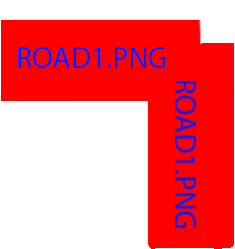
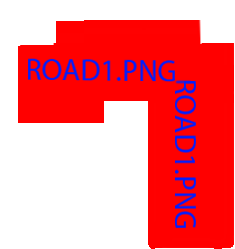
adjustments

Changed region(s): [[0.0, 0.0562, 0.8043, 0.506]]

diff --git a/TEMPLE C/SFML TEMPLE CONNECTION/SFML TEMPLE CONNECTION.cpp b/TEMPLE C/SFML TEMPLE CONNECTION/SFML TEMPLE CONNECTION.cpp
@@ -68,7 +68,7 @@ void reset_level()
     bridge[0].dir[2].second = bridge[0].dir[3].second = 322;
     ////--
     bridge[1].dir[0].first = 0;
-    bridge[1].dir[0].second = -1;
+    bridge[1].dir[0].second = 1;
     bridge[1].dir[1].first = 1;
     bridge[1].dir[1].second = 0;
     bridge[1].dir[2].first = bridge[0].dir[3].first = 322;
@@ -386,7 +386,7 @@ void all_load()
     bridge[0].dir[2].second = bridge[0].dir[3].second = 322;
     ////--
     bridge[1].dir[0].first = 0;
-    bridge[1].dir[0].second = -1;
+    bridge[1].dir[0].second = 1;
     bridge[1].dir[1].first = 1;
     bridge[1].dir[1].second = 0;
     bridge[1].dir[2].first = bridge[0].dir[3].first = 322;
@@ -485,7 +485,7 @@ void all_load()
 
 
     bridge[1].pod.setPosition(1171, 216);
-    bridge[1].pod.setOrigin(190, 60);
+    bridge[1].pod.setOrigin(235-190, 60);
     bridge[1].pod.setTexture(a.get(Texture::road2));
 
 
@@ -590,16 +590,33 @@ bool checkAvailability(int i, int j)
             for (int c = 0; c < 4; c++)
                 if (bridge[pozitie].dir[c].first != 322 && bridge[pozitie].dir[c].second != 322)
                 {
-                    if (BoardState[X + bridge[pozitie].dir[c].first][Y + bridge[pozitie].dir[c].second])
+                    if (c == 1)
                     {
-                        wrong.play();
-                        return 0;
+                        if (BoardState[X + bridge[pozitie].dir[c].first][Y + bridge[pozitie].dir[c].second])
+                        {
+                            wrong.play();
+                            return 0;
+                        }
+                        if (BoardState[X - bridge[pozitie].dir[c].first][Y - bridge[pozitie].dir[c].second])
+                        {
+                            wrong.play();
+                            return 0;
+                        }
                     }
-                    if (BoardState[X - bridge[pozitie].dir[c].first][Y - bridge[pozitie].dir[c].second])
+                    else
                     {
-                        wrong.play();
-                        return 0;
+                        if (BoardState[X - bridge[pozitie].dir[c].first][Y - bridge[pozitie].dir[c].second])
+                        {
+                            wrong.play();
+                            return 0;
+                        }
+                        if(BoardState[X+bridge[1].dir[1].first][Y+bridge[1].dir[1].second])
+                        {
+                            wrong.play();
+                            return 0;
+                        }
                     }
+                  
                 }
 
             break;
@@ -619,7 +636,9 @@ bool checkAvailability(int i, int j)
                     {
                         wrong.play();
                         return 0;
+                       
                     }
+                    if (c == 0);
                 }
 
             break;
@@ -898,6 +917,20 @@ bool punePiesa(sf::Sprite& tile, int i, int j)
                 {
                 case 0:
                 case 1:
+
+                    BoardState[X][Y] = 1 + pozitie;
+                    if (c == 1)
+                    {
+                            BoardState[X + bridge[pozitie].dir[c].first][Y + bridge[pozitie].dir[c].second] = 1 + pozitie;
+                            BoardState[X - bridge[pozitie].dir[c].first][Y - bridge[pozitie].dir[c].second] = 1 + pozitie;
+                    }
+                    else
+                    {
+                            BoardState[X - bridge[pozitie].dir[c].first][Y - bridge[pozitie].dir[c].second] = 1 + pozitie;
+                            BoardState[X + bridge[1].dir[1].first][Y + bridge[1].dir[1].second] = 1 + pozitie;
+                    }
+                    break;
+                      
                 case 2:
                     BoardState[X][Y] = 1 + pozitie;
                     BoardState[X + bridge[pozitie].dir[c].first][Y + bridge[pozitie].dir[c].second] = 1 + pozitie;
@@ -1001,6 +1034,17 @@ void destroy(int pos)
             {
             case 0:
             case 1:
+                BoardState[X][Y] = 0;
+                if (c == 1)
+                {
+                    BoardState[X + bridge[pozitie].dir[c].first][Y + bridge[pozitie].dir[c].second] = 0;
+                    BoardState[X - bridge[pozitie].dir[c].first][Y - bridge[pozitie].dir[c].second] = 0;
+                }
+                else
+                {
+                    BoardState[X - bridge[pozitie].dir[c].first][Y - bridge[pozitie].dir[c].second] = 0;
+                    BoardState[X + bridge[1].dir[1].first][Y + bridge[1].dir[1].second] = 0;
+                }
             case 2:
                 BoardState[X][Y] = 0;
                 BoardState[X + bridge[pos].dir[c].first][Y + bridge[pos].dir[c].second] = 0;
@@ -1212,12 +1256,11 @@ void read()
 }
 int main()
 {
-
     all_load();
     read();
     analyze();
     sf::RenderWindow window(sf::VideoMode(1600, 900), "text", sf::Style::Close);
-    window.setFramerateLimit(60);
+    window.setFramerateLimit(240);
     while (window.isOpen())
     {
         handle_Events(window);
